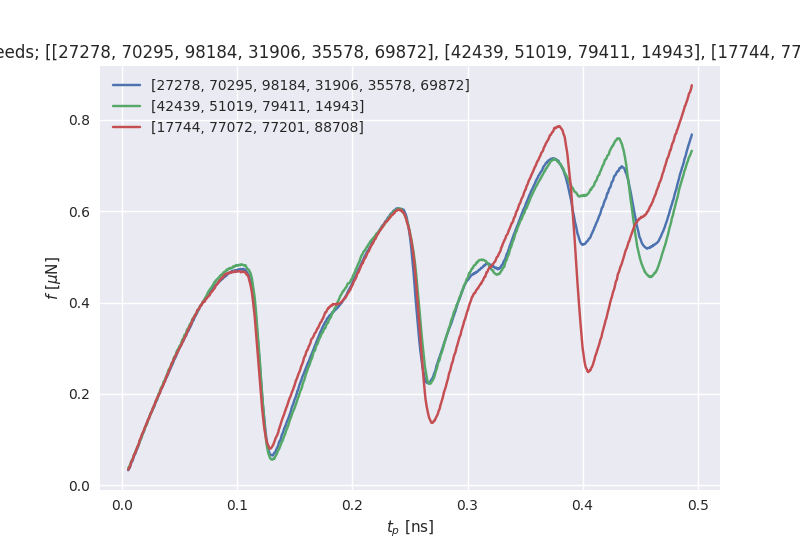
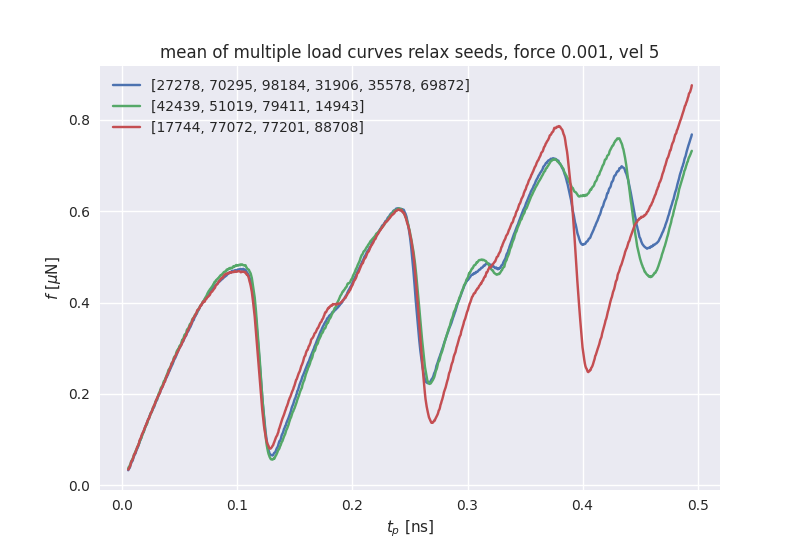
minor adjustment

Changed region(s): [[0.0, 0.0618, 0.9062, 0.1236], [0.9062, 0.0618, 1.0, 0.1236]]

diff --git a/python/plot/plot_load_curves.py b/python/plot/plot_load_curves.py
@@ -88,7 +88,7 @@ def plot_mean_of_multiple(temp, vel, force, orientation, grid, template_lc, temp
         plt.plot(load_curves_mean[0,:,0], load_curves_mean[0,:,1], label=seeds[i])
         plt.xlabel(r"$t_p$ [ns]")
     plt.ylabel(r"$f$ [$\mu$N]")
-    plt.title(f"mean of multiple load curves relax seeds; {seeds}, force {force}, vel {vel}")
+    plt.title(f"mean of multiple load curves relax seeds, force {force}, vel {vel}")
     plt.legend()
     plt.savefig(fig_dir + 'png/means_of_multiple.png')
     
